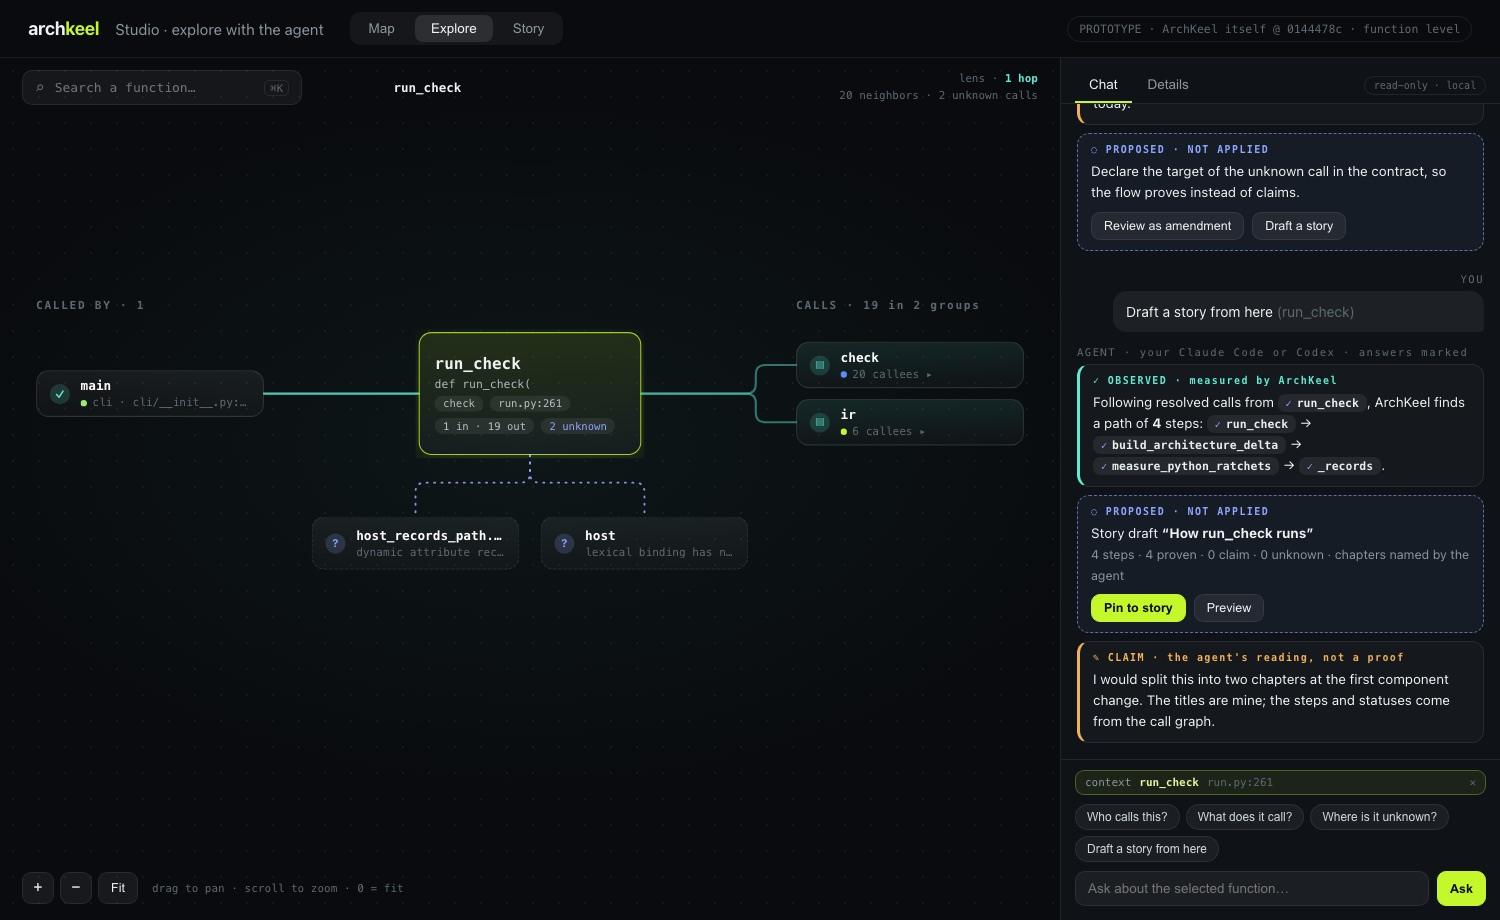
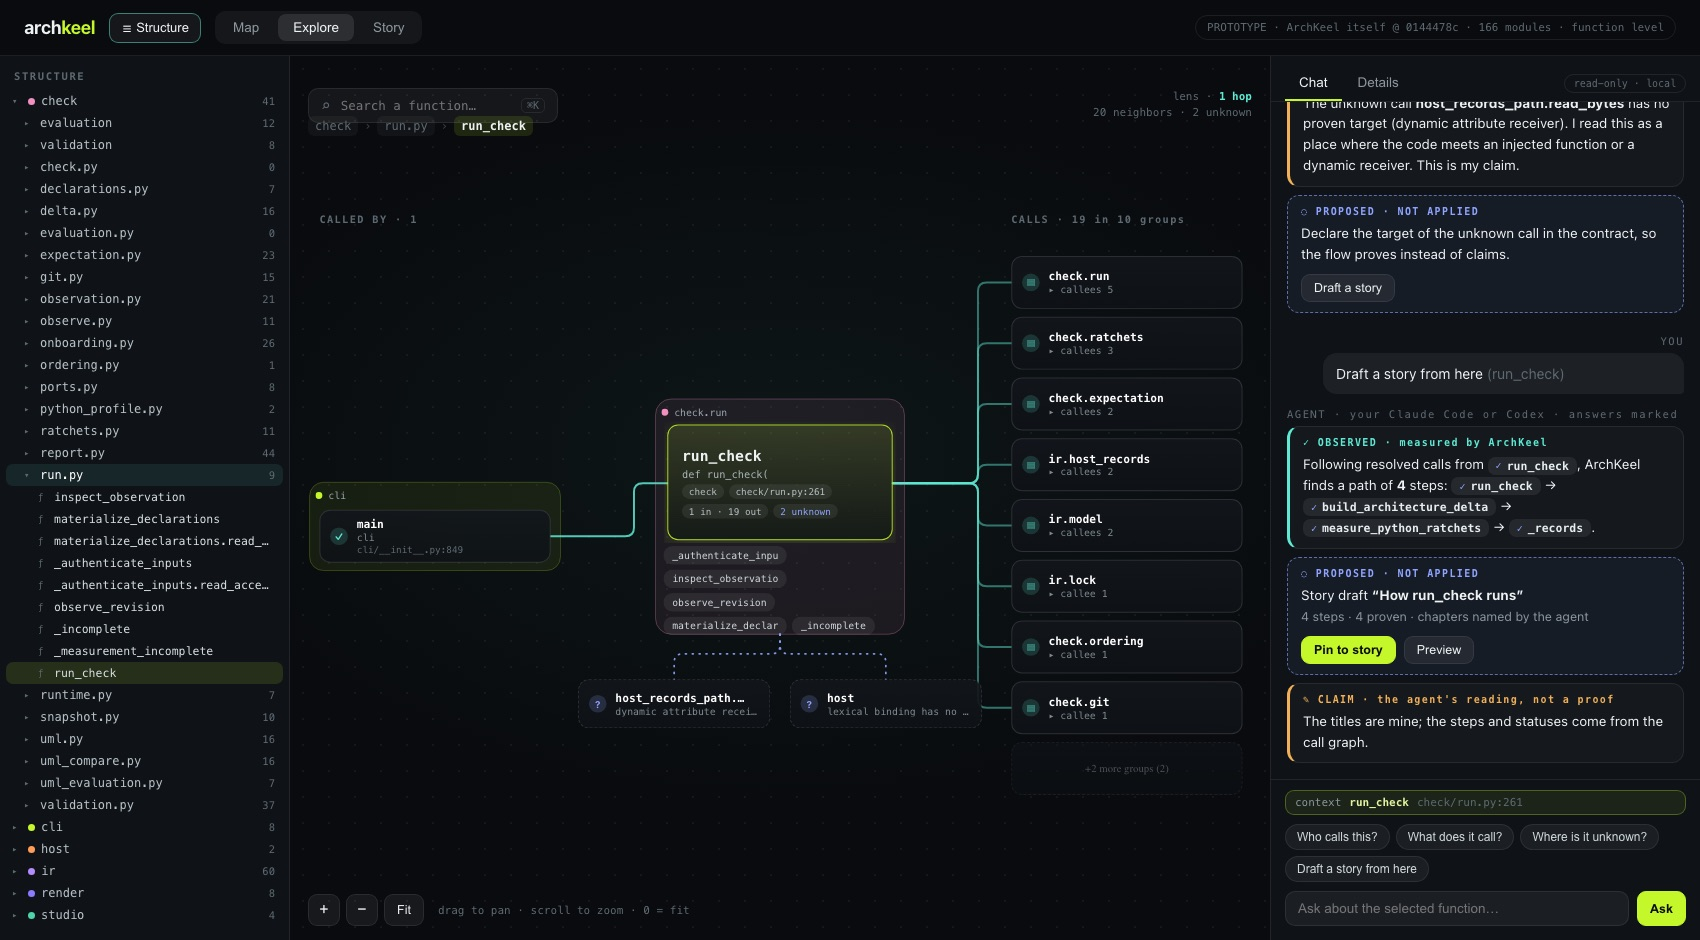
Docs: explore reference images with the structure tree and module plates

diff --git a/docs/assets/studio-target/README.md b/docs/assets/studio-target/README.md
@@ -3,7 +3,7 @@
 Reference images for the Studio storytelling part (issue #822). They are design targets, not features that exist today. The `story-*` and `explore-*` images use ArchKeel's own code at `0144478c`. The `ee-story-*` images use DATAMIMIC EE `development` at `1dcf962aa`; the owner approved their publication on 2026-11-04.
 
 - `story-lanes-status-step5.jpg`, `step9`, `step11`: a story of `archkeel check`. Lanes for each component, one route line, a status on each step (proven, claim, unknown), a measured evidence panel and a question for the architect.
-- `explore-chat-lens.jpg`: the lens around one function, with callers on the left, callees on the right and the unknown calls below. The chat panel separates what ArchKeel observed, what the agent claims and what is only proposed.
+- `explore-chat-lens.jpg`: the lens around one function. Callers on the left, callees on the right, unknown calls below. Cards of one module sit on one translucent plate with the module path. A structure tree on the left and a location bar show where you are. The chat panel separates what ArchKeel observed, what the agent claims and what is only proposed.
 - `explore-chat-draft-story.jpg`: "Draft a story from here" proposes a checked path. Nothing is applied until the owner pins it.
 - `explore-chat-map.jpg`: the map of components, one measured sentence for each.
 
